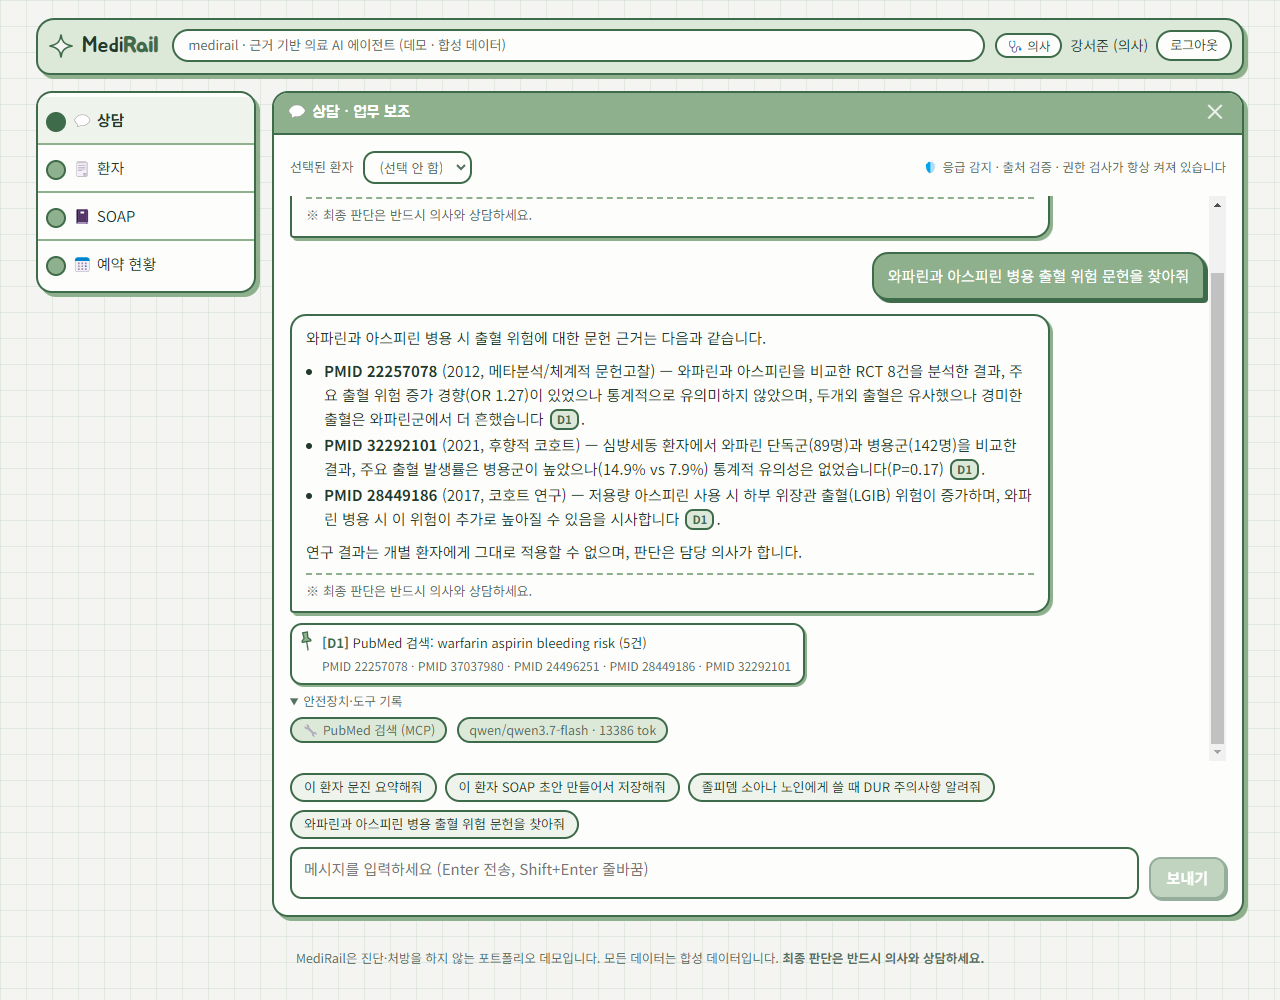
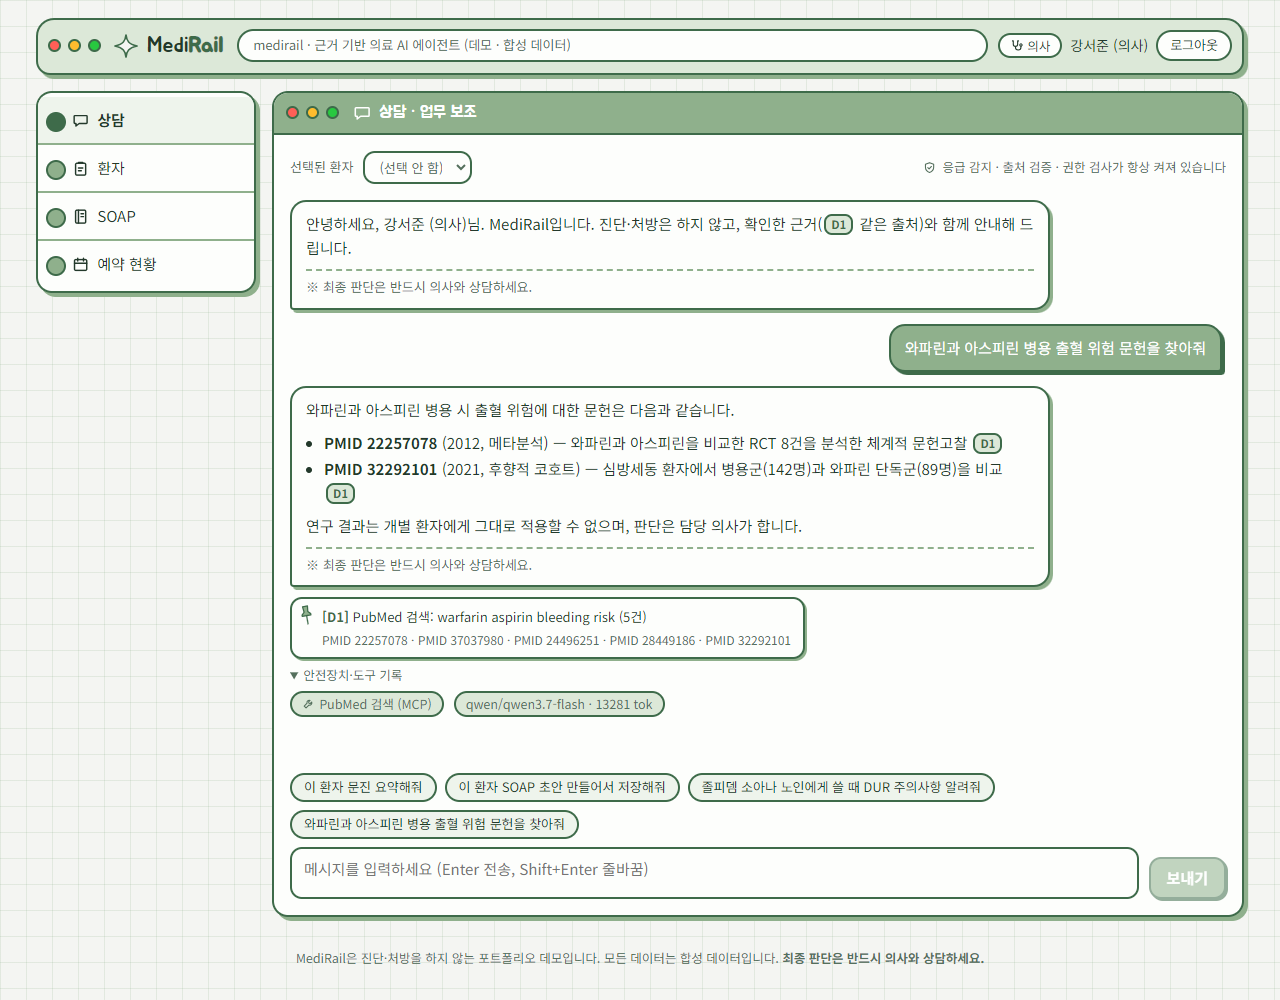
docs: README 이모지 정리와 스크린샷 갱신
신호등 창과 SVG 아이콘이 적용된 화면(로그인, 회원가입, 의사 문헌 검색, 환자 응급 안내)으로 교체. RBAC 표는 텍스트 기호와 범례로 표기.

diff --git a/README.md b/README.md
@@ -5,16 +5,16 @@
 
 이름의 **Rail**은 가드레일(guardrail)입니다. LLM의 능력을 쓰되, 안전은 프롬프트가 아니라 **코드 레벨의 레일**로 보장하는 것이 이 프로젝트의 핵심 주제입니다.
 
-> ⚠ 포트폴리오/학습용 프로젝트입니다. 모든 환자·진료 데이터는 **합성 데이터**이며 실제 의료 서비스에 사용할 수 없습니다.
+> 포트폴리오/학습용 프로젝트입니다. 모든 환자·진료 데이터는 **합성 데이터**이며 실제 의료 서비스에 사용할 수 없습니다.
 
-> 🌐 **라이브 데모: <https://medirail-web-production.up.railway.app>**
+> **라이브 데모: <https://medirail-web-production.up.railway.app>**
 > 로그인 화면 아래의 **데모 계정**(환자·간호사·의사·원무)으로 바로 체험할 수 있고, 회원가입은 환자 계정만 가능합니다. (Railway: 웹 + API + PostgreSQL)
 
 | 로그인 — 아래에 데모 계정 | 회원가입 (환자 전용) |
 |:-:|:-:|
 | ![로그인](docs/screenshots/login.png) | ![회원가입](docs/screenshots/signup.png) |
-| **의사: PubMed 문헌 검색 (MCP)** | **환자 화면** |
-| ![의사 문헌 검색](docs/screenshots/doctor-literature.png) | ![환자 화면](docs/screenshots/patient-home.png) |
+| **의사: PubMed 문헌 검색 (MCP)** | **환자: 응급 문장은 LLM 없이 즉시 119 안내** |
+| ![의사 문헌 검색](docs/screenshots/doctor-literature.png) | ![환자: 응급 즉시 안내](docs/screenshots/patient-emergency.png) |
 
 ---
 
@@ -57,14 +57,14 @@
 
 ```mermaid
 flowchart TB
-    subgraph Client["👤 클라이언트 (React · Railway 웹)"]
+    subgraph Client["클라이언트 (React · Railway 웹)"]
         UI["역할별 화면<br/>환자 · 의사 · 간호사 · 원무"]
     end
 
-    subgraph API["⚙ FastAPI 백엔드"]
+    subgraph API["FastAPI 백엔드"]
         AUTH["인증/인가<br/>JWT + RBAC 의존성"]
         ROUTES["REST 라우트<br/>/auth · /chat · /appointments · /patients · /soap · /audit<br/>요청 제한 (사용자·IP·일일)"]
-        subgraph AGENT["🤖 에이전트 (agent.py)"]
+        subgraph AGENT["에이전트 (agent.py)"]
             PRE["① 응급 사전 차단<br/>(환자 입력)"]
             LOOP["② 도구 호출 루프<br/>(최대 6 step)"]
             POST["③ 출력 사후 검증<br/>+ 1회 자가 교정"]
@@ -73,23 +73,23 @@ flowchart TB
         SVC["서비스 계층 (services.py)<br/>권한·소유권·업무 규칙의 단일 지점"]
         GR["가드레일 (guardrails.py)"]
         BRIDGE["MCP 브리지 (mcp_bridge.py)<br/>서버별 격리 · 지연 기동 · 자동 재기동"]
-        SK["📚 스킬 (skills/*/SKILL.md)<br/>역할별 절차 지식"]
+        SK["스킬 (skills/*/SKILL.md)<br/>역할별 절차 지식"]
     end
 
-    subgraph Data["🗄 데이터"]
+    subgraph Data["데이터"]
         DB[("PostgreSQL (배포) / SQLite (개발)<br/>합성 환자·진료·예약<br/>감사 로그")]
     end
 
-    subgraph LLM["🧠 LLM"]
+    subgraph LLM["LLM"]
         OR["OpenRouter<br/>기본: qwen3.7-flash<br/>(설정으로 교체)"]
     end
 
-    subgraph MCP["🔌 MCP 서버 (stdio 서브프로세스)"]
+    subgraph MCP["MCP 서버 (stdio 서브프로세스)"]
         PUB["pubmed<br/>search_pubmed<br/>get_pubmed_article"]
         DUR["mfds_dur<br/>check_drug_interaction<br/>get_drug_safety_info"]
     end
 
-    subgraph EXT["🌐 외부 공개 데이터"]
+    subgraph EXT["외부 공개 데이터"]
         NCBI["NCBI E-utilities<br/>(PubMed)"]
         MFDS["식약처 DUR OpenAPI<br/>(공공데이터포털)"]
         CACHE[("로컬 인덱스 캐시<br/>30일")]
@@ -123,16 +123,16 @@ flowchart TB
 
 | 계층 | 파일 | 책임 | LLM 의존 |
 |---|---|---|---|
-| 인증/인가 | `auth.py`, `rbac.py` | JWT 발급/검증, 역할→권한 매핑 (역할은 토큰이 아니라 **DB 기준**) | ✗ |
-| 가드레일 | `guardrails.py` | 응급 감지, 없는 인용/논문 번호/확정 진단/안전 단정 차단, 면책 문구 | ✗ |
-| 서비스 | `services.py` | 모든 도메인 로직과 권한 검사. REST·도구가 **공유** | ✗ |
-| 도구 | `tools.py` | 서비스·MCP를 감싼 얇은 어댑터 + 출처 제목 | ✗ |
-| MCP 브리지 | `mcp_bridge.py` | 외부 지식 서버 호출, 장애 격리·재기동 | ✗ |
-| MCP 서버 | `mcp_servers/*` | PubMed, 식약처 DUR (독립 실행 가능, 어떤 MCP 클라이언트에서도 사용) | ✗ |
-| 요청 제한 | `ratelimit.py` | 사용자별·IP별·일일 전체 상한 (공개 데모의 LLM 비용 남용 방지). 응급 안내는 제한하지 않음 | ✗ |
-| 스킬 | `skills.py`, `skills/*/SKILL.md` | 역할별 절차 지식(SOAP·문진·약물·문헌·응급)을 표준 SKILL.md로 관리하고 시스템 프롬프트에 주입 | ✗ |
-| DB | `db.py` | SQLite(개발)·PostgreSQL(배포) 겸용 어댑터. 서비스 코드는 두 DB를 구분하지 않음 | ✗ |
-| 에이전트 | `agent.py`, `prompts.py`, `llm.py` | 대화 루프, 자가 교정, 프롬프트, 모델 호출 | ✓ (여기만) |
+| 인증/인가 | `auth.py`, `rbac.py` | JWT 발급/검증, 역할→권한 매핑 (역할은 토큰이 아니라 **DB 기준**) | |
+| 가드레일 | `guardrails.py` | 응급 감지, 없는 인용/논문 번호/확정 진단/안전 단정 차단, 면책 문구 | |
+| 서비스 | `services.py` | 모든 도메인 로직과 권한 검사. REST·도구가 **공유** | |
+| 도구 | `tools.py` | 서비스·MCP를 감싼 얇은 어댑터 + 출처 제목 | |
+| MCP 브리지 | `mcp_bridge.py` | 외부 지식 서버 호출, 장애 격리·재기동 | |
+| MCP 서버 | `mcp_servers/*` | PubMed, 식약처 DUR (독립 실행 가능, 어떤 MCP 클라이언트에서도 사용) | |
+| 요청 제한 | `ratelimit.py` | 사용자별·IP별·일일 전체 상한 (공개 데모의 LLM 비용 남용 방지). 응급 안내는 제한하지 않음 | |
+| 스킬 | `skills.py`, `skills/*/SKILL.md` | 역할별 절차 지식(SOAP·문진·약물·문헌·응급)을 표준 SKILL.md로 관리하고 시스템 프롬프트에 주입 | |
+| DB | `db.py` | SQLite(개발)·PostgreSQL(배포) 겸용 어댑터. 서비스 코드는 두 DB를 구분하지 않음 | |
+| 에이전트 | `agent.py`, `prompts.py`, `llm.py` | 대화 루프, 자가 교정, 프롬프트, 모델 호출 | (여기만) |
 
 **LLM에 의존하는 부분을 `agent.py` 하나로 격리**했기 때문에, 모델을 바꾸거나 LLM이 오작동해도 안전 속성은 그대로 유지됩니다.
 
@@ -157,7 +157,7 @@ sequenceDiagram
     API->>API: JWT 검증 · chat 권한 확인
     API->>G: detect_emergency(입력)
     alt 응급 키워드 (예: "가슴이 쥐어짜듯 아파요")
-        G-->>P: 🚨 119 안내 (LLM 호출 없음 · 비용 0 · 결정적)
+        G-->>P: 119 안내 (LLM 호출 없음 · 비용 0 · 결정적)
     else 일반 요청
         API->>A: run_agent(user, message)
         A->>L: system(역할별 프롬프트+달력) + 환자용 도구 8종
@@ -168,7 +168,7 @@ sequenceDiagram
         A->>L: tool 결과 전달
         L-->>A: "토요일은 13:00까지라 불가합니다 [D1]"
         A->>G: check_output(답변, 출처 목록)
-        G-->>A: 인용 유효 ✓ · 확정 진단 없음 ✓ · 면책 문구 추가
+        G-->>A: 인용 유효 · 확정 진단 없음 · 면책 문구 추가
         A->>DB: audit_log (도구·이벤트만, 입력 원문 미저장)
         A-->>P: 답변 + 출처 목록 + 가드레일 이벤트
     end
@@ -182,7 +182,7 @@ sequenceDiagram
 flowchart TD
     Q["의사: 실데나필 복용 환자에게<br/>질산염제 병용 가능한가요?"] --> L1["LLM: 도구를 호출하지 않고<br/>'[D1]'을 지어내 답변"]
     L1 --> C1{"출력 검증"}
-    C1 -->|"없는 출처 감지"| R["🔁 자가 교정 (1회 한정)<br/>'도구를 호출해 근거를 확인하세요'"]
+    C1 -->|"없는 출처 감지"| R["자가 교정 (1회 한정)<br/>'도구를 호출해 근거를 확인하세요'"]
     R --> T["check_drug_interaction 호출"]
     T --> B["MCP 브리지 → 식약처 DUR 서버"]
     B --> D{"결과"}
@@ -202,7 +202,7 @@ flowchart LR
     Q["환자: '박서연 님<br/>문진 기록 보여줘'"] --> L1
     L1["① 도구 목록<br/>get_patient_intake가<br/>환자에게 노출되지 않음"] -->|LLM이 그래도 호출 시도| L2
     L2["② execute()<br/>역할 권한 재검사<br/>→ 거부 + 감사 로그"] -->|우회 시도| L3
-    L3["③ services 계층<br/>본인 patient_id가 아니면<br/>PermissionDenied"] --> R["🛑 접근 차단<br/>security.* 감사 로그"]
+    L3["③ services 계층<br/>본인 patient_id가 아니면<br/>PermissionDenied"] --> R["접근 차단<br/>security.* 감사 로그"]
 ```
 
 프롬프트("다른 환자 정보는 주지 마")에만 의존하지 않고, **세 겹의 코드 검사**가 독립적으로 막습니다. 각 계층은 테스트로 검증됩니다.
@@ -213,19 +213,21 @@ flowchart LR
 
 | 권한 | 환자 | 간호사 | 의사 | 원무 |
 |---|:-:|:-:|:-:|:-:|
-| 채팅 (`chat`) | ✅ | ✅ | ✅ | ✅ |
-| 본인 예약 조회/예약/취소, 문진 접수 | ✅ | – | – | – |
-| 전체 예약 조회 | – | ✅ | ✅ | ✅ |
-| 예약 대행 생성/취소 (`appointment.manage_all`) | – | – | – | ✅ |
-| 환자 인적사항 | – | ✅ | ✅ | ✅ |
-| **알레르기·복용약** (임상 필드) | – | ✅ | ✅ | **❌** |
-| 문진 원문 조회 | – | ✅ | ✅ | ❌ |
-| 진료 기록 조회 | – | ❌ | ✅ | ❌ |
-| SOAP **초안** 작성 (AI 보조) | – | ❌ | ✅ | ❌ |
-| SOAP **승인** | – | ❌ | ✅ (REST 전용) | ❌ |
-| 의학 문헌 검색 (PubMed) | ❌ | ✅ | ✅ | ❌ |
-| 약물 상호작용·안전 정보 조회 (식약처 DUR) | ✅ | ✅ | ✅ | ❌ |
-| 감사 로그 조회 | – | – | – | ✅ |
+| 채팅 (`chat`) | ● | ● | ● | ● |
+| 본인 예약 조회/예약/취소, 문진 접수 | ● | – | – | – |
+| 전체 예약 조회 | – | ● | ● | ● |
+| 예약 대행 생성/취소 (`appointment.manage_all`) | – | – | – | ● |
+| 환자 인적사항 | – | ● | ● | ● |
+| **알레르기·복용약** (임상 필드) | – | ● | ● | **** |
+| 문진 원문 조회 | – | ● | ● | |
+| 진료 기록 조회 | – | | ● | |
+| SOAP **초안** 작성 (AI 보조) | – | | ● | |
+| SOAP **승인** | – | | ● (REST 전용) | |
+| 의학 문헌 검색 (PubMed) | | ● | ● | |
+| 약물 상호작용·안전 정보 조회 (식약처 DUR) | ● | ● | ● | |
+| 감사 로그 조회 | – | – | – | ● |
+
+범례: ● 허용 · – 해당 없음 · ✕ 차단(임상 정보 등)
 
 - **필드 단위 접근 제어**: 같은 `GET /patients/{id}`라도 원무에게는 이름·성별만, 의료진에게는 알레르기·복용약까지 반환합니다.
 - **직무 분리**: 원무는 예약을 다루지만 임상 정보는 볼 수 없고, 의사는 초안을 만들 수 있지만 감사 로그는 볼 수 없습니다.
@@ -349,7 +351,7 @@ claude mcp add mfds-dur -- python -m mcp_servers.mfds_dur.server     # DATA_GO_K
 
 | 발견 | 원인 | 조치 |
 |---|---|---|
-| 🔴 **병용금기를 "주의 조합, 금기 아님"으로 안내** (심바스타틴+클래리트로마이신) | (추정) LLM이 DUR 표기와 다른 철자(예: "클라리스로마이신")로 호출 → 표기 불일치로 미탐 → 모델이 상대 목록을 잘못 해석. 이 철자로 호출하면 동일 증상이 재현됨 | 유사 표기는 **놓치지 않도록 후보를 찾아 `needs_confirmation`** 으로 결과와 함께 반환 (자동 확정은 하지 않음 — 다른 약과 구분 불가, 아래 참조). `contraindicated`를 약화하지 못하게 규정. **실제 사고를 재현하는 회귀 테스트** |
+| **병용금기를 "주의 조합, 금기 아님"으로 안내** (심바스타틴+클래리트로마이신) | (추정) LLM이 DUR 표기와 다른 철자(예: "클라리스로마이신")로 호출 → 표기 불일치로 미탐 → 모델이 상대 목록을 잘못 해석. 이 철자로 호출하면 동일 증상이 재현됨 | 유사 표기는 **놓치지 않도록 후보를 찾아 `needs_confirmation`** 으로 결과와 함께 반환 (자동 확정은 하지 않음 — 다른 약과 구분 불가, 아래 참조). `contraindicated`를 약화하지 못하게 규정. **실제 사고를 재현하는 회귀 테스트** |
 | 자동 매칭 임계값이 **다른 약을 같은 약으로** 단정할 뻔함 | 실제 데이터로 검증하니 로바스타틴↔로수바스타틴 0.92, 에리트로마이신↔텔리트로마이신 0.90 — 유사도로는 표기 변형(0.89)과 다른 약을 구분할 수 없음 | 자동 확정 폐기 → 후보 제시 + LLM이 같은 약인지 판단해 정확한 이름으로 재조회 |
 | 품목서비스로 쌍당 2~10초 | 79만 행 데이터를 대표 품목으로 우회 | **성분서비스가 1,836행뿐**임을 발견 → 전체 로컬 인덱스 (첫 조회 1.3초, 이후 즉시). 삭제 고시(65행) 제외, 양방향 검색 |
 | Railway 첫 배포 실패 (로그 없음) | 저장소 루트에서 빌더가 Railpack(자동 감지)으로 잡힘 | `RAILWAY_DOCKERFILE_PATH`로 Dockerfile 명시 |
@@ -406,7 +408,7 @@ erDiagram
 
 | 모델 | 정확도 | 근거 인용 | 환각률↓ | 거절 정확도 | 비용/45문항 | 지연 |
 |---|---|---|---|---|---|---|
-| **qwen3.7-flash** ⭐ | 98% | 100% | 2% | 97% | $0.0009 | 1.5s |
+| **qwen3.7-flash** (기본) | 98% | 100% | 2% | 97% | $0.0009 | 1.5s |
 | deepseek-v4-flash | 97% | 100% | 0% | 90% | $0.0014 | 2.6s |
 | gemini-2.5-flash-lite | 96% | 100% | 0% | 95% | $0.0030 | 1.0s |
 | gpt-5-nano | 97% | 72% | 4% | 90% | $0.0052 | 2.2s |
@@ -521,7 +523,7 @@ python eval/selftest.py                              # 채점기 검증 (비용 
 
 ```mermaid
 flowchart LR
-    U["👤 브라우저"] -->|HTTPS| W["medirail-web<br/>nginx · React 정적 빌드<br/>SPA 폴백 · 보안 헤더"]
+    U["브라우저"] -->|HTTPS| W["medirail-web<br/>nginx · React 정적 빌드<br/>SPA 폴백 · 보안 헤더"]
     U -->|HTTPS · JWT · CORS 허용 출처 1개| A
     subgraph R["Railway 프로젝트: medirail"]
         W
